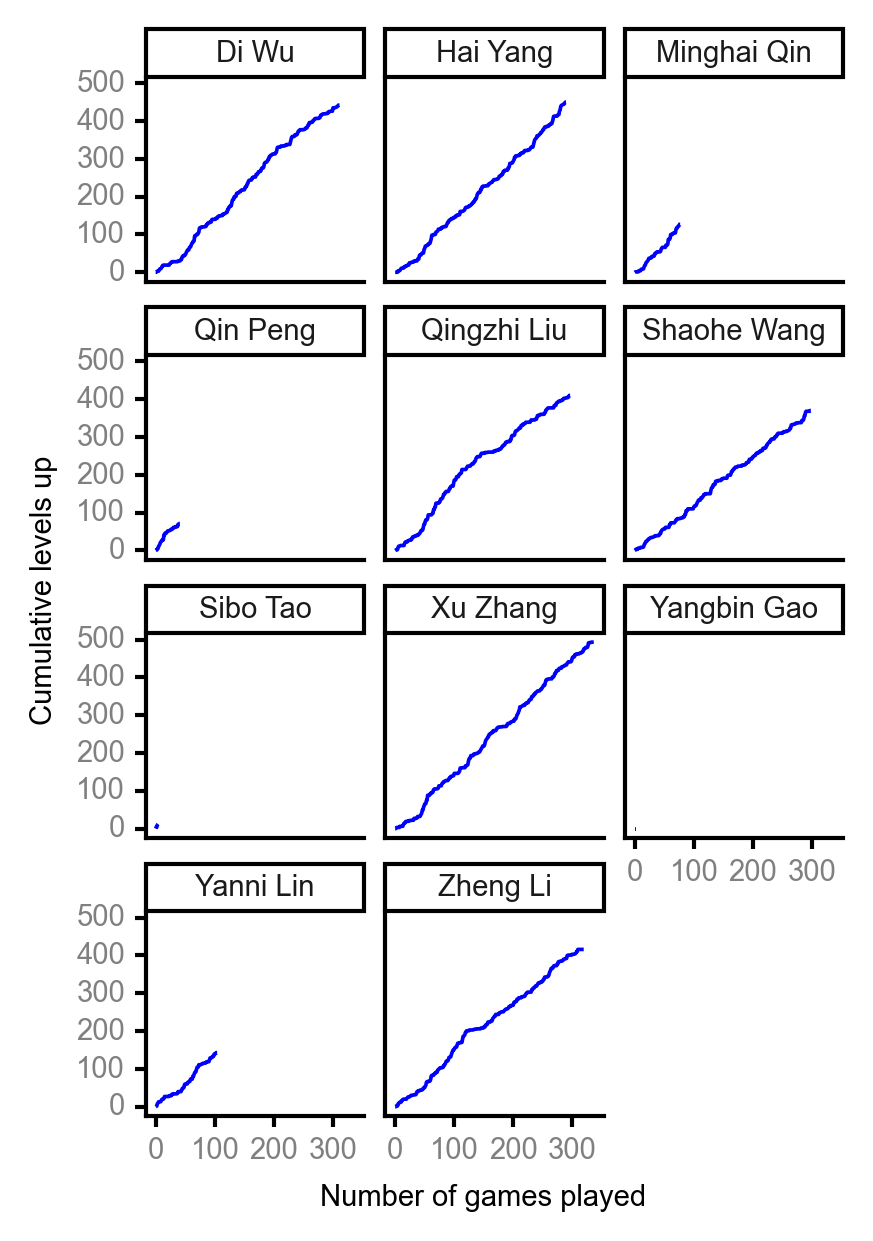
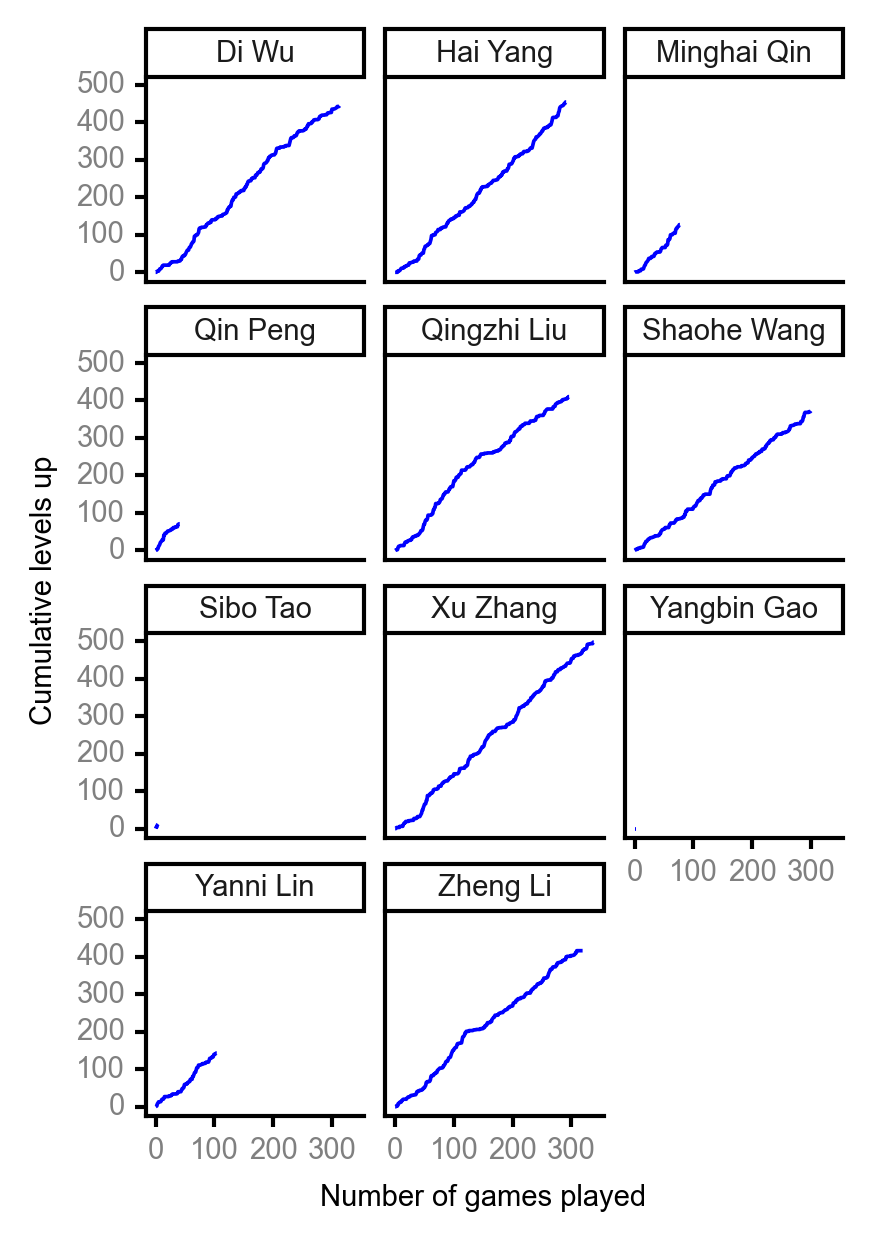
update player stats

diff --git a/player_stats.md b/player_stats.md
@@ -3,7 +3,7 @@ layout: player_stats
 title: Player Statistics
 author: Shaohe Wang
 author_url: https://scholar.google.com/citations?user=R_-kJV4AAAAJ&hl=en
-date: 2021-08-07
+date: 2021-08-14
 ---
 
 #### [Spreadsheet](https://docs.google.com/spreadsheets/d/1So3PBr9gV3I0LzApZOgJlQew2QjM1wAiWhR50rAnHRg/edit#gid=2137801449)
@@ -14,12 +14,12 @@ date: 2021-08-07
 
 | <br><br><br>Rank | <br><br><br>Player | <br> Lifetime <br> levels <br> up | <br><br> Winning <br> rate | <br> Average <br> levels <br> up | <br> Total <br> games <br> played | Games <br> played <br> as <br> MVP | Games <br> played <br> as <br> dealer | N_games <br> short <br> staffed <br> as dealer | Winning <br> rate <br> as <br> dealer |
 |:---:|:---:|:---:|:---:|:---:|:---:|:---:|:---:|:---:|:---:|
-| 1 | Xu <br> Zhang | 497 | 54.6% | 2.70 | 337 | 20 | 64 | 2 | 51.6% |
-| 2 | Hai <br> Yang | 454 | 53.8% | 2.91 | 290 | 26 | 56 | 1 | 58.9% |
-| 3 | Di <br> Wu | 442 | 49.0% | 2.88 | 312 | 35 | 54 | 0 | 50.0% |
+| 1 | Xu <br> Zhang | 498 | 54.6% | 2.69 | 339 | 20 | 65 | 2 | 50.8% |
+| 2 | Hai <br> Yang | 455 | 53.8% | 2.90 | 292 | 26 | 56 | 1 | 58.9% |
+| 3 | Di <br> Wu | 444 | 49.0% | 2.87 | 314 | 35 | 54 | 0 | 50.0% |
 | 4 | Zheng <br> Li | 417 | 51.6% | 2.52 | 320 | 15 | 49 | 1 | 55.1% |
 | 5 | Qingzhi <br> Liu | 411 | 50.5% | 2.73 | 297 | 16 | 52 | 4 | 44.2% |
-| 6 | Shaohe <br> Wang | 370 | 44.5% | 2.78 | 299 | 15 | 49 | 3 | 42.9% |
+| 6 | Shaohe <br> Wang | 372 | 44.5% | 2.78 | 301 | 15 | 50 | 3 | 42.0% |
 | 7 | Yanni <br> Lin | 144 | 47.6% | 2.88 | 105 | 10 | 11 | 2 | 36.4% |
 | 8 | Minghai <br> Qin | 127 | 52.6% | 3.10 | 78 | 1 | 11 | 1 | 72.7% |
 | 9 | Qin <br> Peng | 72 | 59.5% | 2.88 | 42 | 4 | 4 | 0 | 75.0% |
